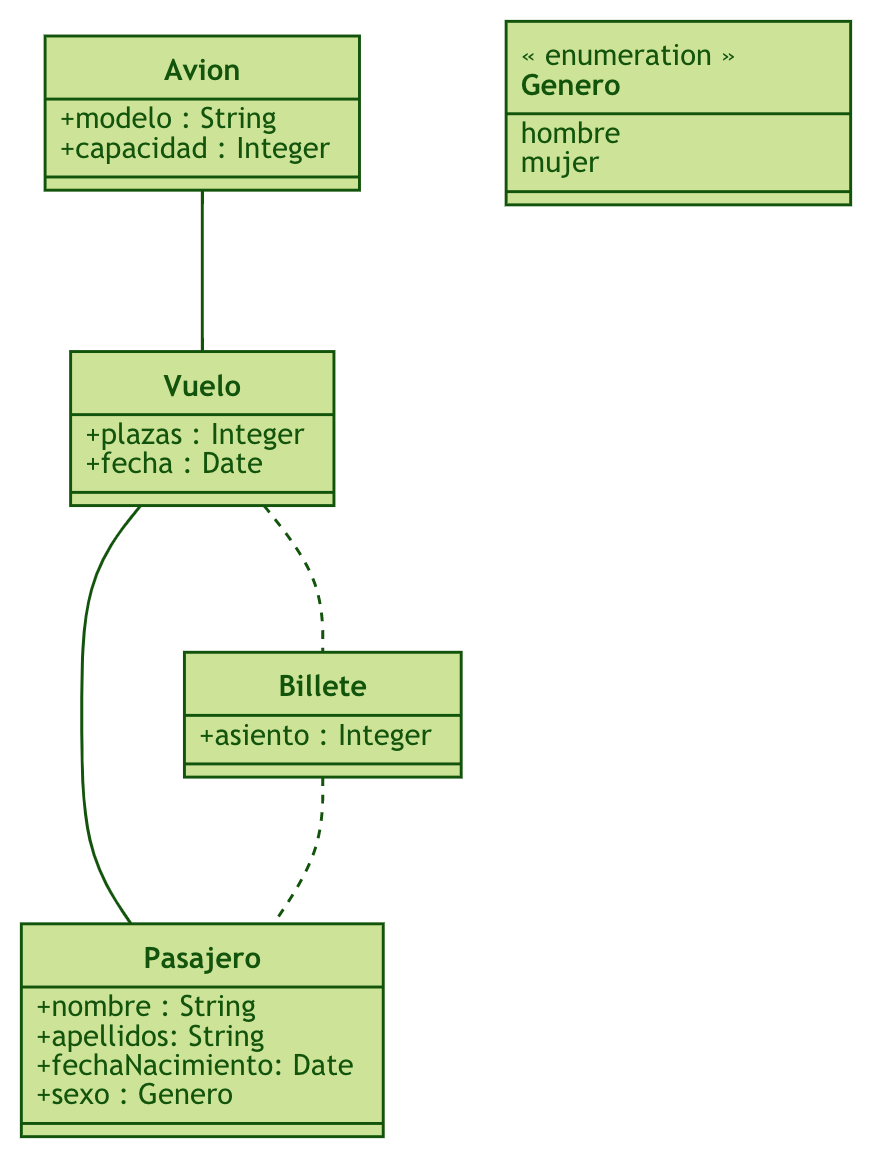
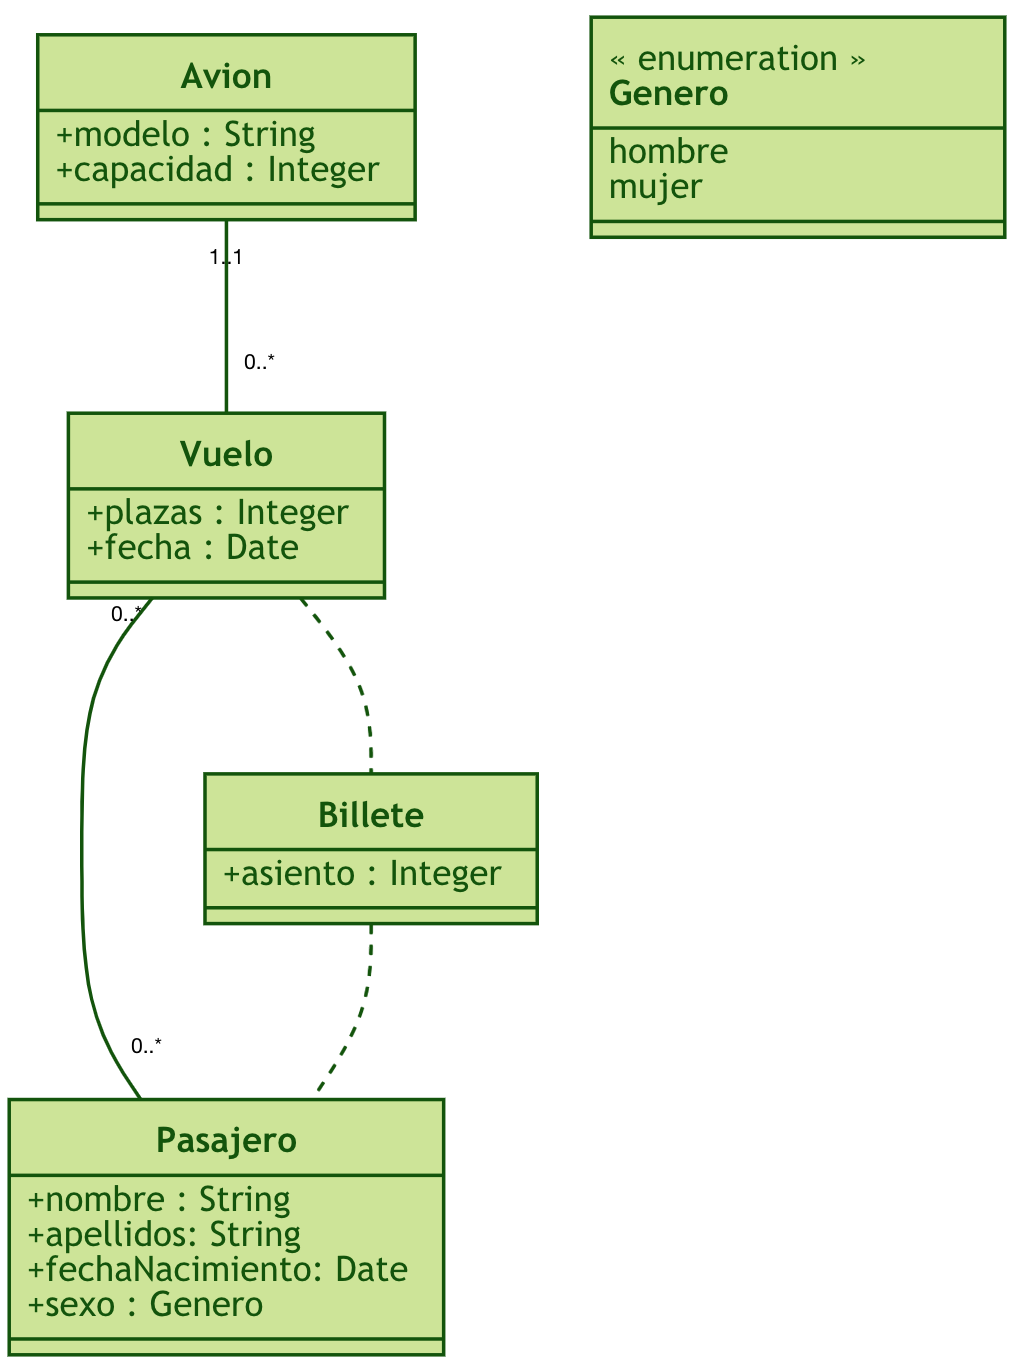
cardinalidad práctica 3

Changed region(s): [[0.0, 0.0, 0.5523, 1.0], [0.5523, 0.0, 1.0, 0.1849]]

diff --git a/src/markdown/Practica3_Markdown.md b/src/markdown/Practica3_Markdown.md
@@ -4,9 +4,9 @@
 ``` mermaid
 classDiagram
 
-    Avion -- Vuelo
+    Avion "1..1" -- "0..*" Vuelo
 
-    Vuelo -- Pasajero
+    Vuelo "0..*" -- "0..*" Pasajero
 
     Vuelo .. Billete
     Billete .. Pasajero
